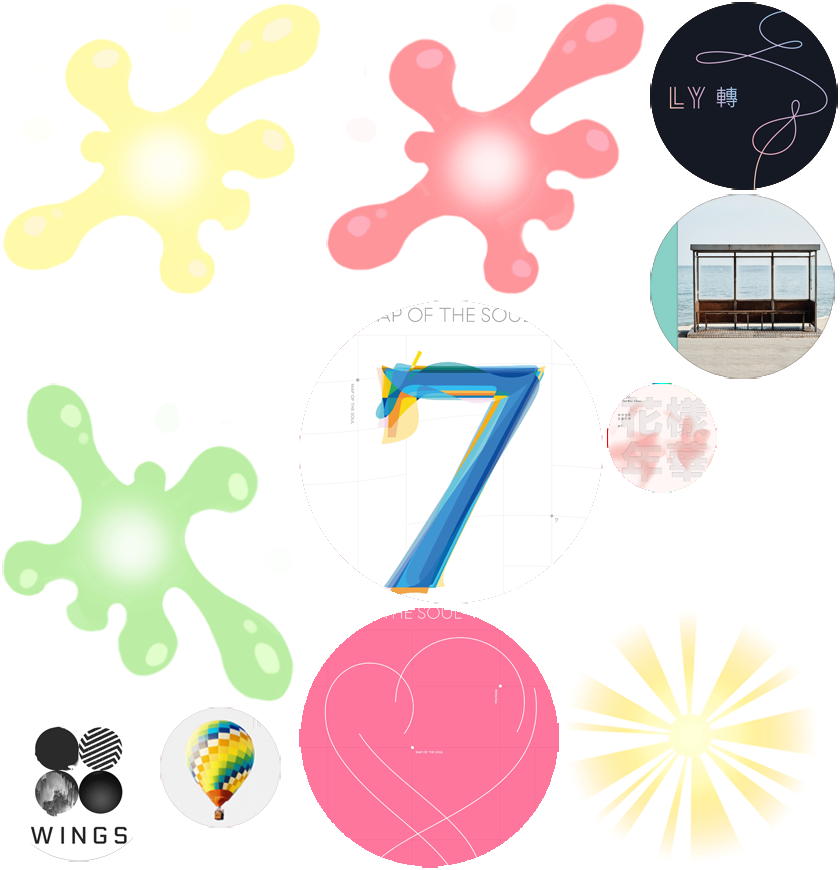
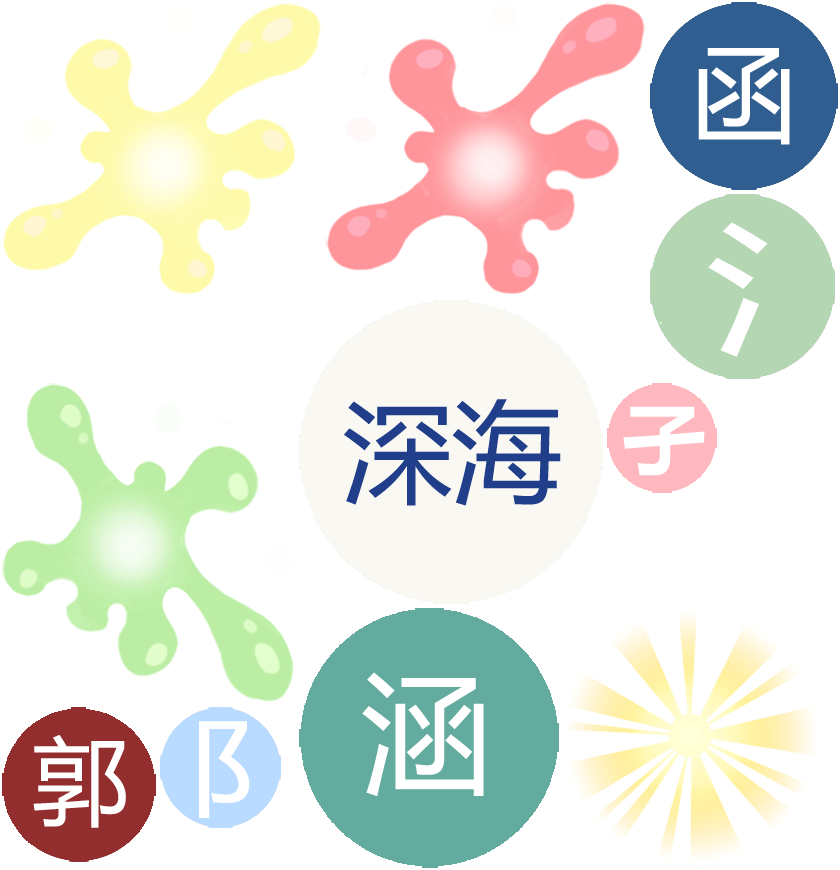
nitial commit

Changed region(s): [[0.0, 0.4034, 0.681, 1.0], [0.7119, 0.0, 1.0, 0.5897], [0.5262, 0.3414, 0.5881, 0.3724]]

diff --git a/index.html b/index.html
@@ -4,7 +4,7 @@
 <head>
     <meta charset="utf-8">
 
-    <title>合成新专辑</title>
+    <title>合成郭涵</title>
 
     <!--http://www.html5rocks.com/en/mobile/mobifying/-->
     <meta name="viewport" content="width=device-width,user-scalable=no,initial-scale=1, minimum-scale=1,maximum-scale=1" />
@@ -109,7 +109,7 @@
             //        console.log("window.navigator.language",window.navigator.language);
 
             if (window.navigator.language == "zh-CN" || window.navigator.language == "zh-cn") {
-                document.title = "合成新专辑";
+                document.title = "合成郭涵";
             } 
 
 
